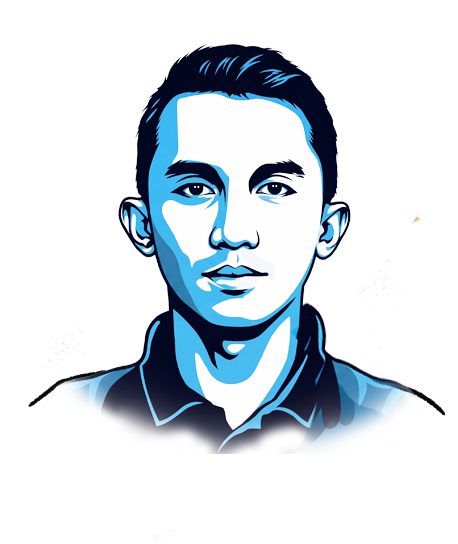
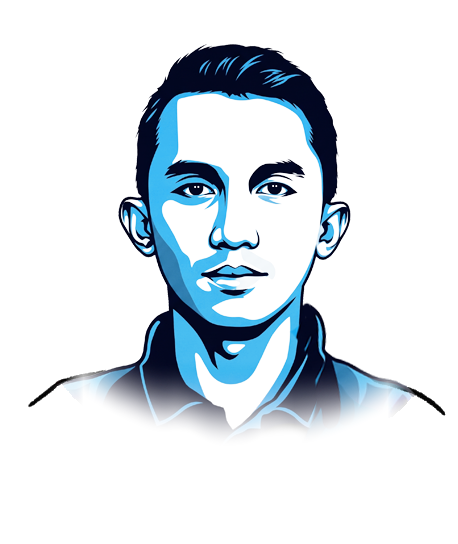
additional UI Improvements

Changed region(s): [[0.1528, 0.6562, 0.917, 0.8438]]

diff --git a/src/components/PaintCanvas.tsx b/src/components/PaintCanvas.tsx
@@ -936,16 +936,21 @@ export default function PaintCanvas() {
       last = { x, y, t: now };
     };
 
-    /** a drop of paint landing: one round splash and a few flecks thrown off it */
-    const splash = (x: number, y: number) => {
+    /** a drop of paint landing: one round splash sized to the brush and a few flecks thrown off it */
+    const splash = (x: number, y: number, radius = 10) => {
       if (pigment < 0) dip();
       const shape = () => Array.from({ length: 10 }, Math.random);
-      const blobs = [{ x, y, r: rand(7, 11), shape: shape() }];
+      const blobs = [{ x, y, r: radius, shape: shape() }];
       const flecks = 3 + ((Math.random() * 3) | 0);
       for (let i = 0; i < flecks; i++) {
         const a = Math.random() * Math.PI * 2;
-        const d = rand(18, 46);
-        blobs.push({ x: x + Math.cos(a) * d, y: y + Math.sin(a) * d, r: rand(1.2, 4), shape: shape() });
+        const d = radius * rand(1.8, 3.8);
+        blobs.push({
+          x: x + Math.cos(a) * d,
+          y: y + Math.sin(a) * d,
+          r: Math.max(1, radius * rand(0.14, 0.36)),
+          shape: shape(),
+        });
       }
       splashes.push({ t: performance.now(), c: pigment, blobs });
       if (splashes.length > 24) splashes.shift();
@@ -983,14 +988,20 @@ export default function PaintCanvas() {
       if (active) active.liftMs = rand(650, 1100);
       // dragging to paint shouldn't select the page text
       document.documentElement.classList.add("is-painting");
-      splash(e.clientX + window.scrollX, e.clientY + window.scrollY);
+      const px = e.clientX + window.scrollX;
+      const py = e.clientY + window.scrollY;
       if (!active) {
         dip();
-        last = { x: e.clientX + window.scrollX, y: e.clientY + window.scrollY, t: now };
+        last = { x: px, y: py, t: now };
         press = 1;
-        width = 9;
         beginStroke(now);
+        width = 9 * active!.weight;
+      } else {
+        active.liftMs = rand(650, 1100);
+        press = 1;
+        width = Math.max(width, 9 * active.weight);
       }
+      splash(px, py, width);
     };
 
     /** touch screens: each tap drops a splash in a fresh colour */
